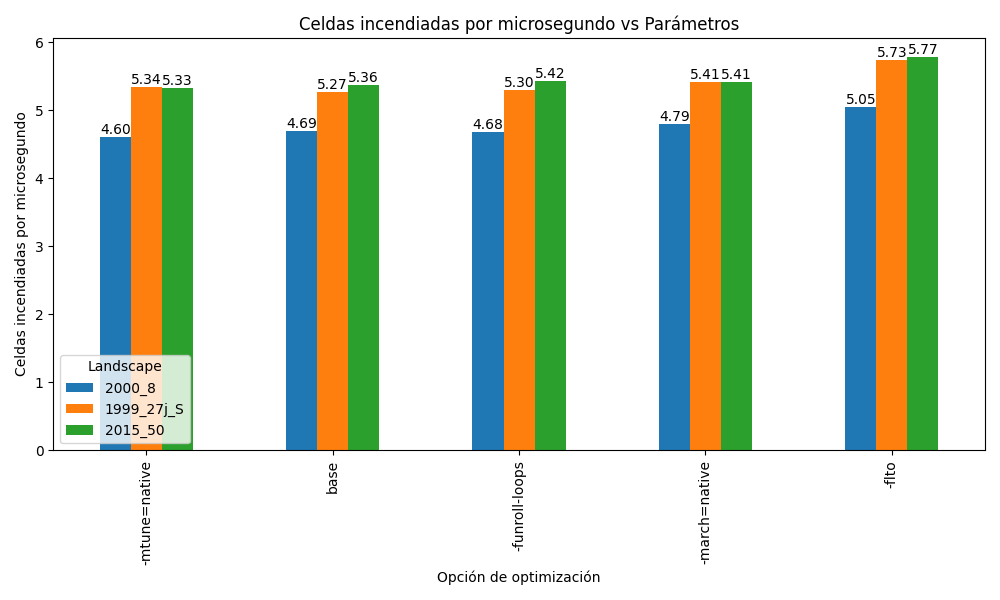
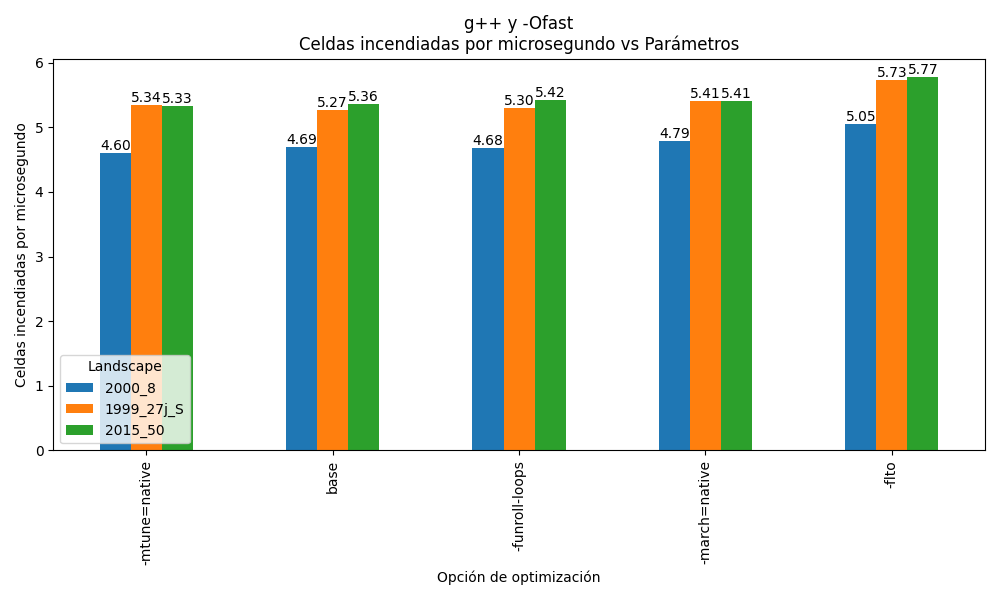
graphs

diff --git a/runner3.py b/runner3.py
@@ -16,14 +16,14 @@ def maxCeldasPorSeg(res):
 
 def main():
 
-    with open('resultadosComp3Local2.csv', mode='w') as file:
+    with open('resultadosComp3Local1Reduced.csv', mode='w') as file:
         writer = csv.writer(file)
         writer.writerow(["Compilador", "Optimizador", "Landscape", "Celdas quemadas por microsegundo"])
         for landscape in landscapes:
             for comp in compiladores:
                 for opt in optimizadores:
                     os.system("make clean && make CXX=\"" + comp + "\" CXXOPT=\"" + opt + "\"")
-                    comandoPerf = ["perf", "stat", "-r", str(landscape[1]), "./graphics/fire_animation_data" , landscape[0], "0"]
+                    comandoPerf = ["/usr/lib/linux-tools/5.15.0-134-generic/perf", "stat", "-r", str(landscape[1]), "./graphics/fire_animation_data" , landscape[0], "0"]
                     resPerf = subprocess.run(comandoPerf, stderr=subprocess.PIPE, text=True)
 
                     writer.writerow([comp, opt, landscape[0], maxCeldasPorSeg(resPerf)])

diff --git a/graficador2.py b/graficador2.py
@@ -28,7 +28,7 @@ def plot_comparacion_celdas(csv_path):
     ax = pivot.plot(kind='bar', figsize=(10, 6))
     ax.set_xlabel("Opción de optimización")
     ax.set_ylabel("Celdas incendiadas por microsegundo")
-    ax.set_title("Celdas incendiadas por microsegundo vs Parámetros")
+    ax.set_title("g++ y -Ofast\nCeldas incendiadas por microsegundo vs Parámetros")
     ax.legend(title="Landscape", loc="lower left")
     
     # Modificar las etiquetas del eje x para que no muestren "-Ofast"

diff --git a/graficador3Atom.py b/graficador3Atom.py
@@ -3,7 +3,7 @@ import matplotlib.pyplot as plt
 import os
 
 # Crear carpeta si no existe
-output_dir = "./comp3Atom"
+output_dir = "./comp3Reduced"
 os.makedirs(output_dir, exist_ok=True)
 
 # Lista de archivos con sus etiquetas
